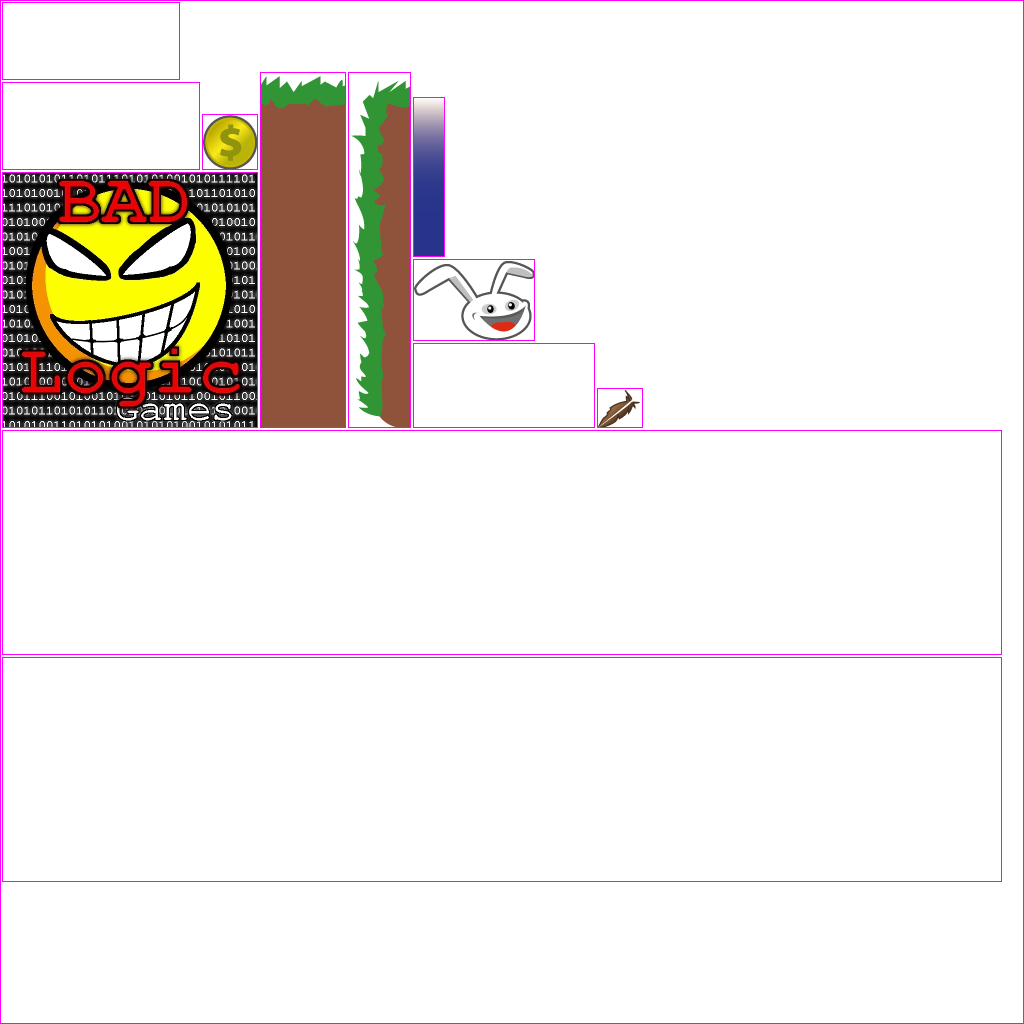
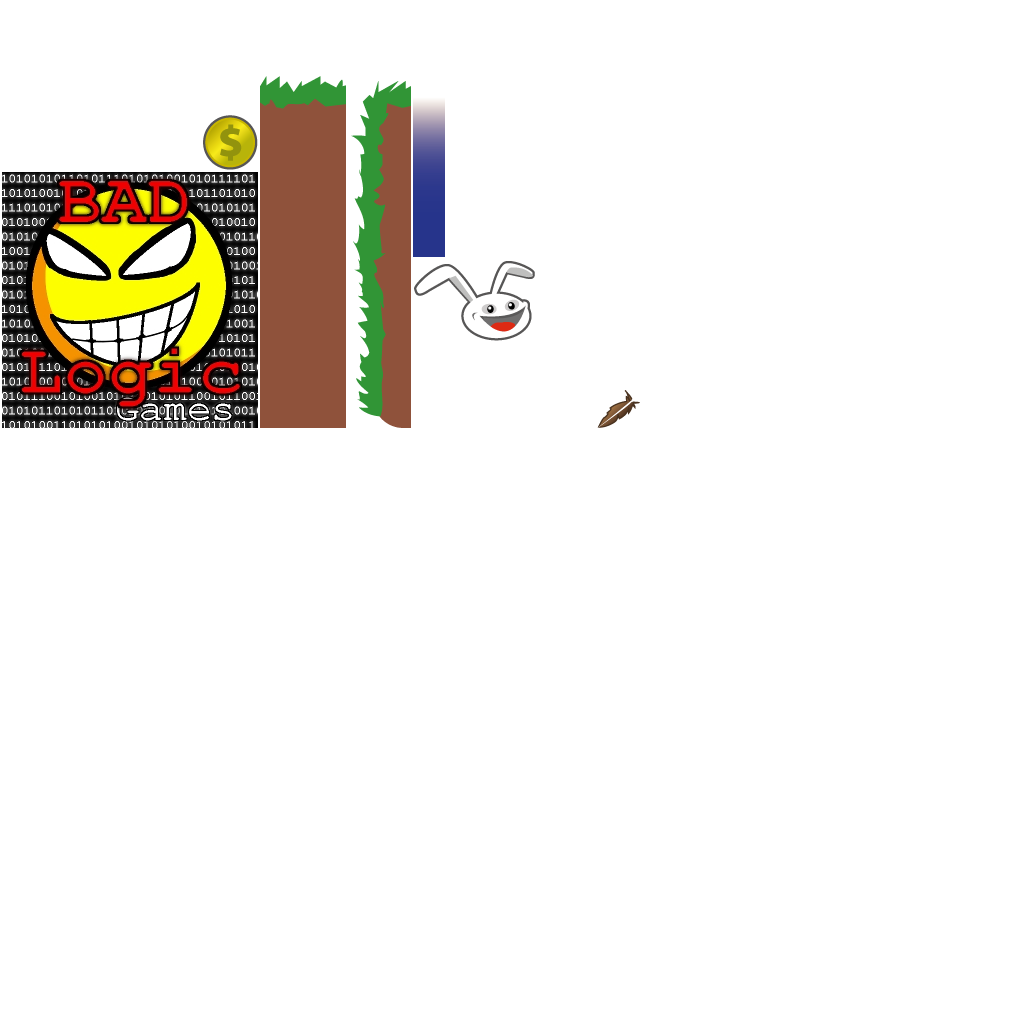
Turned off debug outlines; code now works.

diff --git a/desktop/src/com/libgdx/csc361_f18_g8/desktop/DesktopLauncher.java b/desktop/src/com/libgdx/csc361_f18_g8/desktop/DesktopLauncher.java
@@ -10,7 +10,7 @@ import com.libgdx.csc361_f18_g8.CanyonBunnyMain;
 public class DesktopLauncher
 {
 	private static boolean rebuildAtlas = true;
-	private static boolean drawDebugOutline = true;
+	private static boolean drawDebugOutline = false;
 	
 	public static void main(String[] arg)
 	{
@@ -20,7 +20,7 @@ public class DesktopLauncher
 			settings.maxWidth = 1024;
 			settings.maxHeight = 1024;
 			settings.duplicatePadding = false;
-			settings.debug = drawDebugOutline;
+			//settings.debug = drawDebugOutline;
 			TexturePacker.process(settings, "assets-raw/images", "../core/assets/images", "canyonbunny");
 		}
 		LwjglApplicationConfiguration config = new LwjglApplicationConfiguration();
